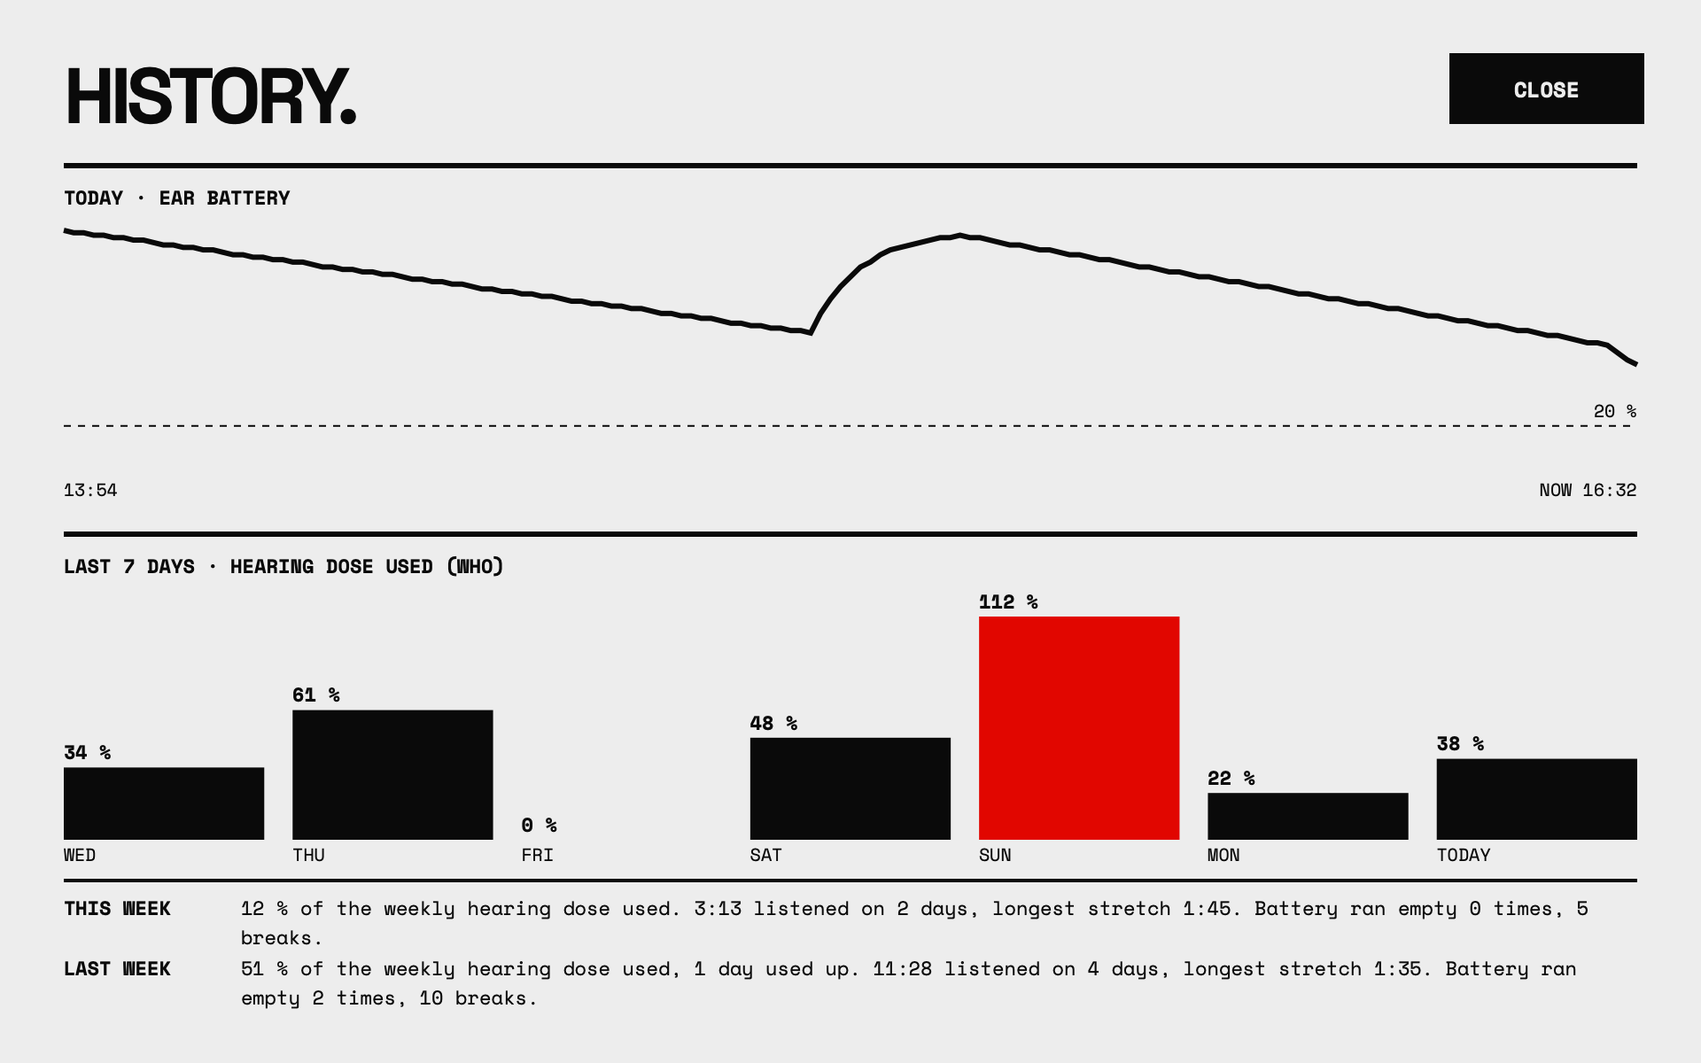
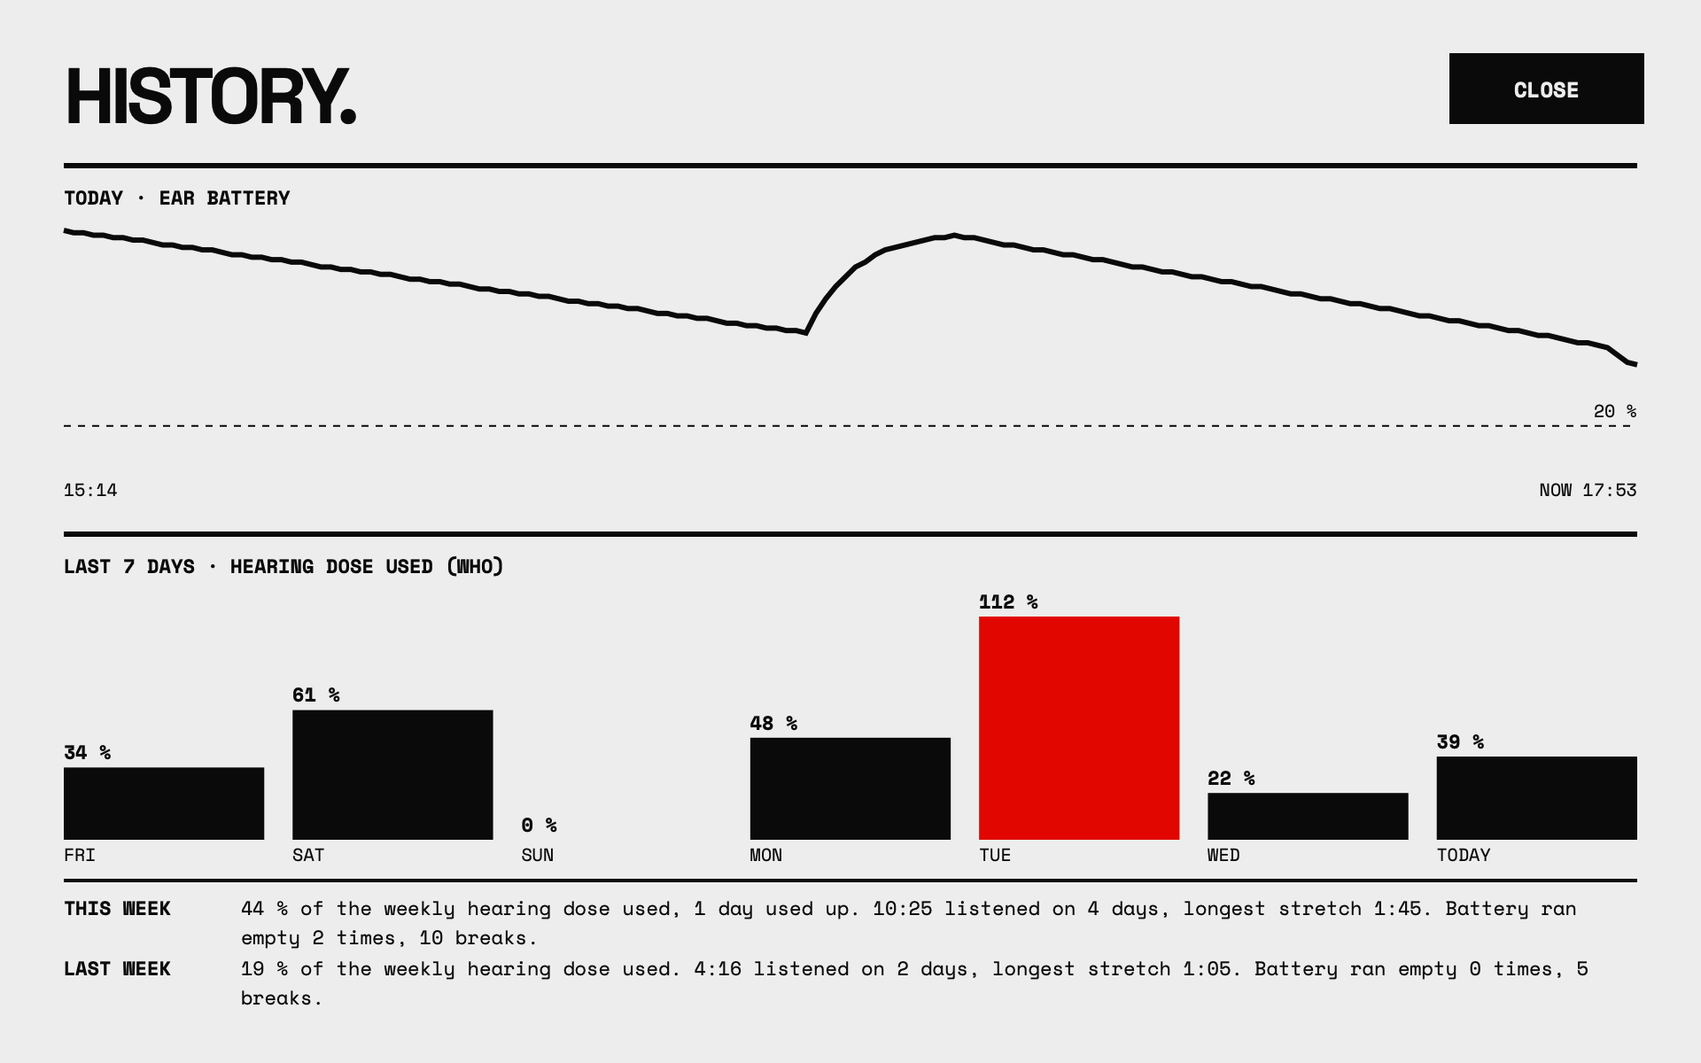
M11.4: README up to date, five screenshots; SIGNAL shows SILENCE
Kilian: bring the README up to date (design, screenshots, technical
details).

README:
- New sections:
  - "A coach, not a nag": the four break topics, with examples;
  - "The interface": the big word, the battery as the black area, red,
    one line per job, two sizes, hover explanations, HISTORY and DATA;
  - "Under the hood": formats, the audio path, the measurement
    standards (BS.1770, IEC 61672, WHO / ITU-T H.870), the fatigue
    model, threads, CPU, memory, host awareness, data files, testing.
    All numbers come from IMPLEMENTATION.md §8.
- A table of how long a day's hearing dose lasts at each level, a
  quick-facts line, and the M11.2/M11.3 behaviour (questions wait,
  8 h at NORMAL).
- Screenshots: the main window (fresh run), the pop-ups, a break with a
  coach thought, HISTORY and COMPACT.

brEARk_Soak showcase now also takes a break (BREAK pressed; a minute
later the coach shows a thought on the track) and draws the NEW
SESSION. and BREAK. pop-ups side by side.

Found by the new screenshot: in silence SIGNAL read "-inf LUFS". It now
reads SILENCE (test added). Tests: 3411 checks (arm64 + x86_64);
pluginval.

diff --git a/tools/Soak.cpp b/tools/Soak.cpp
@@ -15,11 +15,12 @@
 // state seen. Writes soak.csv (one row per 10 s). Pop-ups and sounds are off.
 //
 // Usage: brEARk_Soak [minutes = 180] [output folder = current folder] [quick]
-//        brEARk_Soak showcase [folder]: the README screenshots (a scripted session, 2.5 min)
+//        brEARk_Soak showcase [folder]: the README screenshots (a scripted session, ~4 min)
 //        "quick" shortens every phase to a tenth: a smoke test of the soak itself.
 // Exit code 0 = all checks passed.
 
 #include "PluginProcessor.h"
+#include "ui/ToastWindow.h"
 #include "../tests/RealisticMusic.h"
 
 #include <dlfcn.h>
@@ -416,6 +417,53 @@ static int runShowcase (const juce::File& folder)
             pump (300.0);
             save (*editor, "showcase-history.png");
         }
+    }
+
+    // A break: the music stops, BREAK is pressed, and after a minute the coach
+    // shows its first thought on the track (whichever the shuffle picks).
+    {
+        device.mode = Mode::silence;
+        pump (2000.0);
+        processor->setPosterSize (true);
+        std::unique_ptr<juce::AudioProcessorEditor> editor (processor->createEditor());
+        pump (300.0);
+
+        if (clickButton (*editor, "BREAK"))
+        {
+            std::cout << "brEARk showcase: on a break for 65 s ...\n";
+            pump (65000.0);
+            save (*editor, "showcase-break.png");
+        }
+    }
+
+    // The two pop-ups, as the plugin draws them, side by side on a transparent backdrop.
+    {
+        constexpr float scale = 2.0f;
+        constexpr int gap = 24;
+        ToastWindow toast;
+
+        toast.show ({ "NEW SESSION.", "Where do you listen, and how loud is it on your ears?", "", false, false, false, true, true, 0 });
+        pump (200.0);
+        const auto session = toast.createComponentSnapshot (toast.getLocalBounds(), true, scale);
+
+        toast.show ({ "BREAK.", "Fresh ears are a production tool. Get some: 12 minutes.", "EAR BATTERY 0 %   BREAK 12 MIN", false, true });
+        pump (200.0);
+        const auto breakDue = toast.createComponentSnapshot (toast.getLocalBounds(), true, scale);
+        toast.dismiss();
+
+        juce::Image both (juce::Image::ARGB, session.getWidth() + breakDue.getWidth() + (int) (gap * scale),
+                          std::max (session.getHeight(), breakDue.getHeight()), true);
+        {
+            juce::Graphics g (both);
+            g.drawImageAt (session, 0, 0);
+            g.drawImageAt (breakDue, session.getWidth() + (int) (gap * scale), 0);
+        }
+
+        const auto file = folder.getChildFile ("showcase-popups.png");
+        file.deleteFile();
+        juce::FileOutputStream out (file);
+        juce::PNGImageFormat().writeImageToStream (both, out);
+        std::cout << "  " << file.getFullPathName() << "\n";
     }
 
     device.stop();

diff --git a/tests/MeterModelTests.cpp b/tests/MeterModelTests.cpp
@@ -16,6 +16,7 @@ public:
         {
             Snapshot s;
             s.silent = false;
+            s.lufsShortTerm = -9.0f; // music playing
             setUp (s);
             return ui::makeMeterModel (s, "line", active, PowerDown::Stage::run);
         };
@@ -188,6 +189,19 @@ public:
                 for (const auto* phrase : { "USED UP", "CALL IT A DAY", "BREAK DUE", "RECOVERING", "UNPLUGGED", "EMPTY", "05:00" })
                     expect (small.indexOf (phrase) == small.lastIndexOf (phrase), "COMPACT says '" + juce::String (phrase) + "' twice: " + small);
             }
+        }
+
+        beginTest ("M11.4: silence shows as SILENCE, never -inf");
+        {
+            const auto quiet = wordFor ([] (Snapshot& s) { s.silent = true; s.lufsShortTerm = Snapshot::minusInfinity; s.breakPhase = BreakPhase::onBreak; });
+            expectEquals (quiet.stats[4].value, juce::String ("SILENCE"));
+            expectEquals (quiet.compactLines[1][0].text, juce::String ("SILENCE"));
+
+            juce::StringArray texts { quiet.status };
+            for (const auto& stat : quiet.stats) texts.add (stat.label + " " + stat.value);
+            for (const auto& line : quiet.compactLines) for (const auto& item : line) texts.add (item.text);
+            for (const auto& item : quiet.timeLine) texts.add (item.text);
+            expect (! texts.joinIntoString (" ").containsIgnoreCase ("inf"), texts.joinIntoString (" | "));
         }
 
         beginTest ("Hover: the explanation under the mouse");

diff --git a/source/ui/MeterView.cpp b/source/ui/MeterView.cpp
@@ -293,7 +293,7 @@ MeterModel makeMeterModel (const Snapshot& s, const juce::String& coachLine, boo
     const auto& doseTip = s.dayDone ? tips::dayDone : tips::doseToday;
 
     // The signal, honestly: its loudness, and against the moment you set your level.
-    const auto signal = db (s.lufsShortTerm) + " LUFS";
+    const auto signal = std::isfinite (s.lufsShortTerm) ? db (s.lufsShortTerm) + " LUFS" : juce::String ("SILENCE"); // not -inf LUFS
     const auto vsAnchor = ! (s.levelAnchored && playing) ? juce::String()
                         : std::abs (s.signalVsAnchorLu) < 1.0f ? levelName + " AS SET"
                                                                : levelName + " " + (s.signalVsAnchorLu > 0.0f ? "+" : "")

diff --git a/README.md b/README.md
@@ -4,9 +4,11 @@
 
 You sit down to fix one snare. You look up and it's 2 a.m., the mix is harsh, the master is crushed, and your ears are ringing. brEARk sits on your master channel, listens to everything you hear, and tells you when to take a break, before your judgment goes and before your hearing pays for it.
 
-![brEARk two hours into a session: OK., 45 % ear battery, break in about 17 minutes](docs/images/showcase-poster.png)
+![brEARk in the middle of a session: OK., 45 % ear battery, break in about 17 minutes](docs/images/showcase-poster.png)
 
-<sub>From a test run: brEARk listening to a mastered house loop at about −7 LUFS, after 2 h 14 min of listening today. The day so far was loaded for the test; the level, the drain and the forecasts were measured live by the plugin, and the image is drawn by its own UI code. The battery is draining faster than usual because the master is heavily limited (LITTLE DYNAMICS +20 %) and the day is already well used (FULL DAY +19 %).</sub>
+<sub>From a test run: brEARk listening to a mastered house loop at about −7 LUFS, after 2 h 14 min of listening today. The day so far was loaded for the test; the level, the drain and the forecasts were measured live by the plugin, and the image is drawn by its own UI code. The battery is draining faster than usual because the master is heavily limited (LITTLE DYNAMICS +20 %) and the day is already well used (FULL DAY +20 %). The music plays 3 LU louder than when NORMAL was set, so the hearing dose runs at about twice the NORMAL pace: ~2:15 h left.</sub>
+
+**VST3 · Audio Unit · macOS 11+ · Apple Silicon and Intel · zero latency · bit-identical output · no account, no internet**
 
 ---
 
@@ -29,10 +31,14 @@ If you lose track of time when the music is working, and many producers with ADH
 brEARk is an outside clock that doesn't get pulled into the flow with you:
 
 - **It watches so you don't have to.** No timers to set and nothing to remember: it starts listening the moment Live plays.
-- **Its pop-ups find you.** They float over full-screen Live and on every Space and never steal your keyboard. Messages close on their own; questions wait for your answer.
+- **Its pop-ups find you.** They float over full-screen Live and on every Space and never steal your keyboard. Messages close after a few seconds, pop-ups with a button stay half a minute, and questions wait for your answer.
 - **It's honest without nagging.** One big word tells you where you stand: **FRESH.** **OK.** **TIRING.** **BREAK.** **STOP.** In ESCALATING mode, reminders only get firmer if you keep going.
 - **It can hold the line for you.** In HARD mode, brEARk pulls the plug when your ears are spent: the music slows down like a turntable losing power and stops, for at least 5 minutes. It never cuts a recording, and SNOOZE always buys you 10 minutes.
 - **It tells you what's left.** "BREAK IN ~17 MIN" and "AT QUIET ~40 MIN" turn an abstract warning into a choice you can act on.
+
+![Two pop-ups: NEW SESSION. asks where you listen and how loud it is; BREAK. suggests 12 minutes](docs/images/showcase-popups.png)
+
+<sub>brEARk's pop-ups, drawn by the plugin. Left: the question at the start of every session, which waits for your answer. Right: a break alert with its BREAK NOW button.</sub>
 
 brEARk isn't a treatment for anything. It's the friend who taps you on the shoulder.
 
@@ -56,6 +62,27 @@ Read the big word as a schedule: **FRESH.** is the time for the big calls (balan
 
 ---
 
+## A coach, not a nag
+
+brEARk speaks in short lines, at the bottom of its window and in its pop-ups. The tone follows your ears: playful while they're fresh, a calm mentor when they tire, blunt once you ignore a break.
+
+During a break the line changes every minute, and it gives your mind something better to do than checking the mix:
+
+| Every minute, in turn | For example |
+|---|---|
+| A thought on the track | "Which sound is a placeholder you stopped hearing?" |
+| A care tip | "Unclench your jaw. Long sessions pile up tension there." |
+| A thought on the craft | "Are you polishing, or avoiding the next hard decision?" |
+| An ear fact | "Your ear canal resonates near 3 kHz and boosts it by about 10 dB. That's why harsh mids bite." |
+
+There are about 370 lines, and none comes back before the rest of its kind has been shown, even after you restart Live. You can add your own in a plain text file.
+
+![RESTING.: a break, with a thought on the track in the coach line](docs/images/showcase-break.png)
+
+<sub>A break in the same test run: the music stopped and BREAK was pressed. A minute later, the coach line at the bottom shows its first thought on the track, picked at random from 58.</sub>
+
+---
+
 ## How it works
 
 brEARk keeps two meters:
@@ -64,6 +91,14 @@ brEARk keeps two meters:
 - **Hearing dose:** how much of today's safe sound you've used, after the WHO. A full day at NORMAL is 8 hours; louder uses it faster. It doesn't refill during the day. At 100 % brEARk says **DONE.**
 
 **Your ears set the level; brEARk measures the music.** brEARk can't hear your room or see your volume knob, so it never guesses dB at your ears. Instead you rate it: **QUIET** (you could talk normally), **NORMAL** (you'd raise your voice) or **LOUD** (you'd have to shout), and **MONITORS** or **HEADPHONES**. brEARk asks at the start of each session and listens to the music for about two minutes to lock your rating in. From then on it measures how much louder or quieter the music is than when you rated it, and asks again when it drifts.
+
+| At the level you rated | A day's hearing dose lasts |
+|---|---|
+| **QUIET** | practically all day |
+| **NORMAL** | 8 hours |
+| **LOUD** | 2.5 hours |
+
+Music louder than when you rated it uses the dose faster: every 3 LU halves the time.
 
 **You choose how strict it is:**
 
@@ -75,9 +110,26 @@ brEARk keeps two meters:
 
 ![HISTORY: today's ear battery, the last 7 days of hearing dose, this week and last week](docs/images/showcase-history.png)
 
-<sub>HISTORY from the same test run: today's ear battery with one break, the last 7 days of hearing dose (Sunday used it up), and this week compared with last week.</sub>
+<sub>HISTORY from the same test run: today's ear battery with one break, the last 7 days of hearing dose (red: one day used it up), and this week compared with last week.</sub>
 
 Every pop-up and its trigger is listed in [docs/ALERTS.md](docs/ALERTS.md).
+
+---
+
+## The interface
+
+Built to be read from across the room, in the corner of your eye:
+
+- **One big word** says where your ears stand. Under it, one line says what's happening; above the numbers, one line says how much time is left. Nothing is said twice.
+- **The black area is the battery.** It sinks as your ears tire and turns red at 20 %. The whole window turns red when brEARk means it: STOP., UNPLUGGED., DONE. in HARD mode.
+- **Two sizes:** POSTER, big enough to read from across the room, and COMPACT for when screen space is tight.
+- **Every value and button explains itself** when you hover over it: what it shows, and what it means for you.
+- **HISTORY** shows today's battery, the last 7 days and the week; **DATA** shows every raw number.
+- Set in Space Grotesk and Space Mono. Paper, ink and one signal red.
+
+<img src="docs/images/showcase-compact.png" alt="COMPACT: the same session in the small window" width="520">
+
+<sub>COMPACT, from the same test run.</sub>
 
 ---
 
@@ -93,9 +145,31 @@ brEARk lives on your master, so it's built to be invisible there:
 
 ---
 
+## Under the hood
+
+For the engineers in the room:
+
+| | |
+|---|---|
+| **Formats** | VST3 and Audio Unit, built with JUCE 8. macOS 11 or later, universal binary (Apple Silicon and Intel). |
+| **Audio path** | Pass-through with 0 samples of latency. 32- and 64-bit processing, mono and stereo, 44.1 to 192 kHz. An automated null test hosts the installed VST3 and AU and requires bit-identical output, also when brEARk is switched off and on mid-stream. |
+| **Loudness** | ITU-R BS.1770 (LUFS, 400 ms momentary and 3 s short-term), checked with the EBU Tech 3341 test signals. |
+| **Hearing dose** | A-weighted level (IEC 61672) from an FFT spectrum, against the WHO / ITU-T H.870 safe-listening limit: 80 dB(A) for 40 hours a week, equal energy, 3 dB exchange rate. Your NORMAL rating is taken as 80 dB(A). |
+| **Ear battery** | brEARk's own fatigue model: perceived loudness against your rating (every 5 dB doubles the drain), multiplied by brightness, dynamics (PSR), repetition, time of day and the day's dose, capped at ×1.6. Recovery starts after 60 s of silence, with a 5-minute time constant. |
+| **Brightness** | Energy at 2–5 kHz and 8–16 kHz against the 250 Hz–2 kHz body of the mix. |
+| **Loops** | Detected on Live's tempo grid: one FFT per 16th note, loops of 1 to 16 bars, robust to small fader and EQ moves. |
+| **Threads** | The audio thread only copies samples into a lock-free FIFO: no allocation, no locks, no file access, verified during the soak test by intercepting every allocation and lock. All analysis runs on one shared low-priority worker; the window redraws 4 times a second. |
+| **CPU** | Audio thread 0.017 % of one core (Instruments, 48 kHz / 512 samples). All analysis together about 0.1 % of one performance core (benchmark). |
+| **Memory** | 1.8 MB at 44.1 or 48 kHz, up to 3.0 MB at 192 kHz, allocated before playback. HARD mode adds a 2-second buffer for the power-down (1 MB at 48 kHz). |
+| **Host awareness** | Exports (flagged by the host, or audio faster than real time) are never counted. Switched off in Live: everything freezes and HISTORY shows the time as OFF. A sleeping Mac counts as rest. The first brEARk in Live listens; a second one shows INACTIVE. |
+| **Your data** | `~/Library/Application Support/brEARk/`: `state.json` (settings, today and 14 days of history), `coach-memory.json` (which coach lines you've seen) and your own `coach.txt`. brEARk contains no network code. |
+| **Testing** | 3,408 automated checks, the null test, pluginval at strictness 10 (VST3 and AU), auval, and a 3-hour soak test across 8 audio device setups (44.1–192 kHz, 64–2048 samples, 32/64-bit, mono/stereo) with the editor opened 100 times and memory checked every hour. On Apple Silicon and, for Intel, under Rosetta. |
+
+---
+
 ## Honest numbers
 
-brEARk is a coach, not a medical device. The hearing dose follows the WHO's safe-listening guidance; the ear battery is brEARk's own model of listening fatigue, an estimate tuned by ear. Because brEARk can't hear your room, the level on your ears comes from your own rating, and everything brEARk shows about the signal (LUFS, LU, PSR) is measured, not guessed. If your ears ring or feel muffled, stop for the day, and see a hearing professional if it doesn't pass.
+brEARk is a coach, not a medical device. The hearing dose follows the WHO's safe-listening guidance, with your NORMAL rating taken as the WHO's 80 dB(A); the ear battery is brEARk's own model of listening fatigue, an estimate tuned by ear. Because brEARk can't hear your room, the level on your ears comes from your own rating, and everything brEARk shows about the signal (LUFS, LU, PSR) is measured, not guessed. If your ears ring or feel muffled, stop for the day, and see a hearing professional if it doesn't pass.
 
 ---
 
@@ -110,4 +184,4 @@ brEARk is a coach, not a medical device. The hearing dose follows the WHO's safe
 
 ---
 
-<sub>brEARk is made by Totemphonia Studio Berlin. Type: Space Grotesk and Space Mono (SIL Open Font License). Build, tests and your own coach lines: [docs/DEVELOPMENT.md](docs/DEVELOPMENT.md). Concept: [CONCEPT.md](CONCEPT.md).</sub>
+<sub>brEARk is made by Totemphonia Studio Berlin. Type: Space Grotesk and Space Mono (SIL Open Font License). Build, tests and your own coach lines: [docs/DEVELOPMENT.md](docs/DEVELOPMENT.md). Concept: [CONCEPT.md](CONCEPT.md). Every alert: [docs/ALERTS.md](docs/ALERTS.md).</sub>

diff --git a/IMPLEMENTATION.md b/IMPLEMENTATION.md
@@ -308,6 +308,7 @@ Each milestone has the same rhythm:
 | **M11.1** | Pop-ups close themselves; the session check-in asks the setup too (Kilian) | No more X; NEW SESSION. with MONITORS / HEADPHONES | *Built: `ToastWindow` closes after 6 s (a message) or 12 s (a check-in or SNOOZE), never while the mouse is over it (then 1.5 s after it leaves). The first check-in of a session (`CheckInPolicy::Reason::firstSound`) shows NEW SESSION. with a MONITORS / HEADPHONES switch (applies at once, keeps the pop-up open and restarts its 12 s) above the QUIET / NORMAL / LOUD answers (anchor and close); the pop-up grows to 200 px for the extra row* |
 | **M11.2** | Kilian: the hearing dose ran out too early; status lines said the same thing twice; pop-ups with buttons vanished too fast | 8 h at NORMAL, one line one job, questions wait | *Built: (1) Hearing dose: the anchor stores the A-weighted level too (`ExposureState::referenceLevelA`), so NORMAL at the anchor = 80 dB(A) = 8 h on any mix; LOUD 85 dB (2.5 h, was 90 = 48 min); the headphone +3 dB drives the battery only. `LevelAnchor`: a level click listens to the last 30 s and the next 90 s of play (energy mean), so a quiet intro can't set the level; cancelled by a 5 min break; DATA shows SETTING: 2 MIN. Today's history that prompted it: 413 % after 2:48 h on headphones. (2) Window: the status line says what's happening, the time line only gives times (BREAK IN, 90 % IN, TAKE ~12 MIN OF QUIET), the dose column only its number; UNPLUGGED. shows SOUND BACK IN m:ss, BREAK. shows EAR BATTERY EMPTY; nothing on OFF./INACTIVE. A test checks that no phrase appears twice in any state, at both sizes. (3) Pop-ups: messages 6 s, BREAK NOW / SNOOZE 30 s, questions until answered or closed; a question pushed aside by another pop-up comes back after it; setting the level anywhere closes it (`Brain::getLevelAnswers`)* |
 | **M11.3** | Kilian: more coach lines, the tips (Gedankenanstöße) shouldn't repeat often | ~370 lines, a new break topic, memory across restarts | *Built: lines 190 → 369, break tips 55 → 177: thoughts on the track 20 → 58, care 15 → 37, ear facts 20 → 42, and the new `breakThought` (40 thoughts on the craft); idle 12 → 38; 2–4 more per alert and hint. Breaks rotate four topics (track, care, craft, fact), so every other minute is a thought. The shuffle bags remember shown lines by a hash of their text, saved in `coach-memory.json` next to the history (every ~minute and on quit; never by test tools), so a restart doesn't bring lines back early, and new or edited lines fit in. Facts kept to well-established ones; the WHO numbers follow its 3 dB rule. `coach.example.txt` is refreshed when outdated. Tests: 3408 checks* |
+| **M11.4** | Kilian: bring the README up to date (design, screenshots, technical details) | README with five screenshots | *Built: the README gets a coach section (four break topics, examples), an interface section, a dose-per-level table and an "Under the hood" table (formats, audio path, measurement standards, threads, CPU, memory, host awareness, data files, testing), all with numbers from §8. `brEARk_Soak showcase` now also takes a break (BREAK pressed, a minute later the coach shows a thought on the track) and draws the NEW SESSION. and BREAK. pop-ups side by side. Found by the new screenshot: in silence SIGNAL read "-inf LUFS"; it now reads SILENCE (test added). Tests: 3411 checks* |
 
 **What I need from you:**
 - **Before M4:** `alert.mp3`, ideally under 3 s, normalized to a comfortable level.

diff --git a/docs/DEVELOPMENT.md b/docs/DEVELOPMENT.md
@@ -51,7 +51,7 @@ BREARK_STATE_FILE=/tmp/breark-pluginval.json /Applications/pluginval.app/Content
 
 It writes `soak.csv` (one row per 10 s). `quick` shortens the phases to a tenth for a smoke test. No pop-ups or sounds (`BREARK_QUIET`). The Intel half runs under Rosetta with `arch -x86_64 -e DYLD_INSERT_LIBRARIES=<path>/libbrEARk_RealtimeCheck.dylib <path>/brEARk_Soak 25`. `arch` is a system tool, so macOS strips `DYLD_` variables passed any other way.
 
-`brEARk_Soak showcase [folder]` makes the README screenshots: a scripted day plus 2.5 minutes of real-time listening to a rendered house loop, saved as `showcase-poster.png`, `showcase-history.png` and `showcase-compact.png`. Run it as `brEARk_Soak showcase docs/images`.
+`brEARk_Soak showcase [folder]` makes the README screenshots (about 4 minutes): a scripted day plus 2.5 minutes of real-time listening to a rendered house loop, saved as `showcase-poster.png`, `showcase-history.png` and `showcase-compact.png`; then a break (the music stops, BREAK is pressed, a minute later the coach shows a thought on the track: `showcase-break.png`); then the NEW SESSION. and BREAK. pop-ups side by side (`showcase-popups.png`; they flash on screen while being drawn). Run it as `brEARk_Soak showcase docs/images`.
 
 All tools redirect the listening history (`BREARK_STATE_FILE`), so testing never touches your real `~/Library/Application Support/brEARk/state.json`.
 
